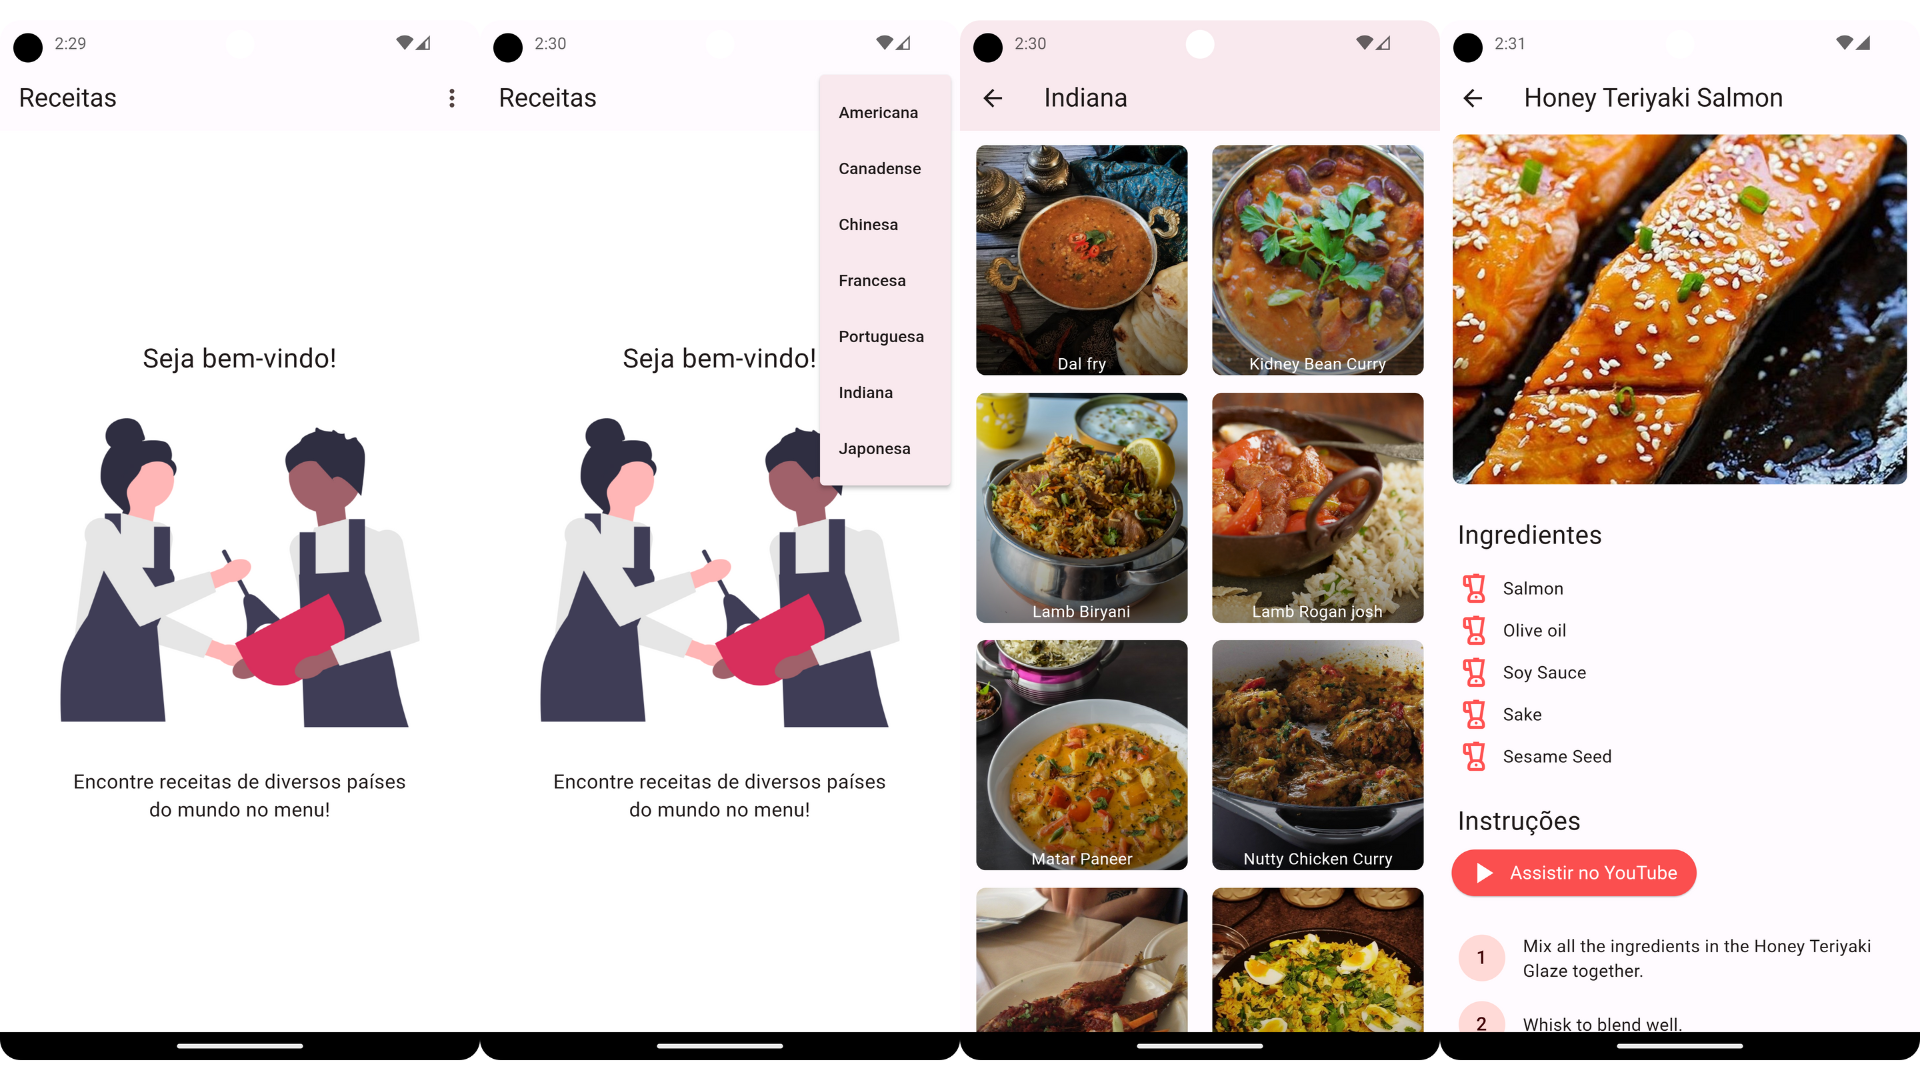
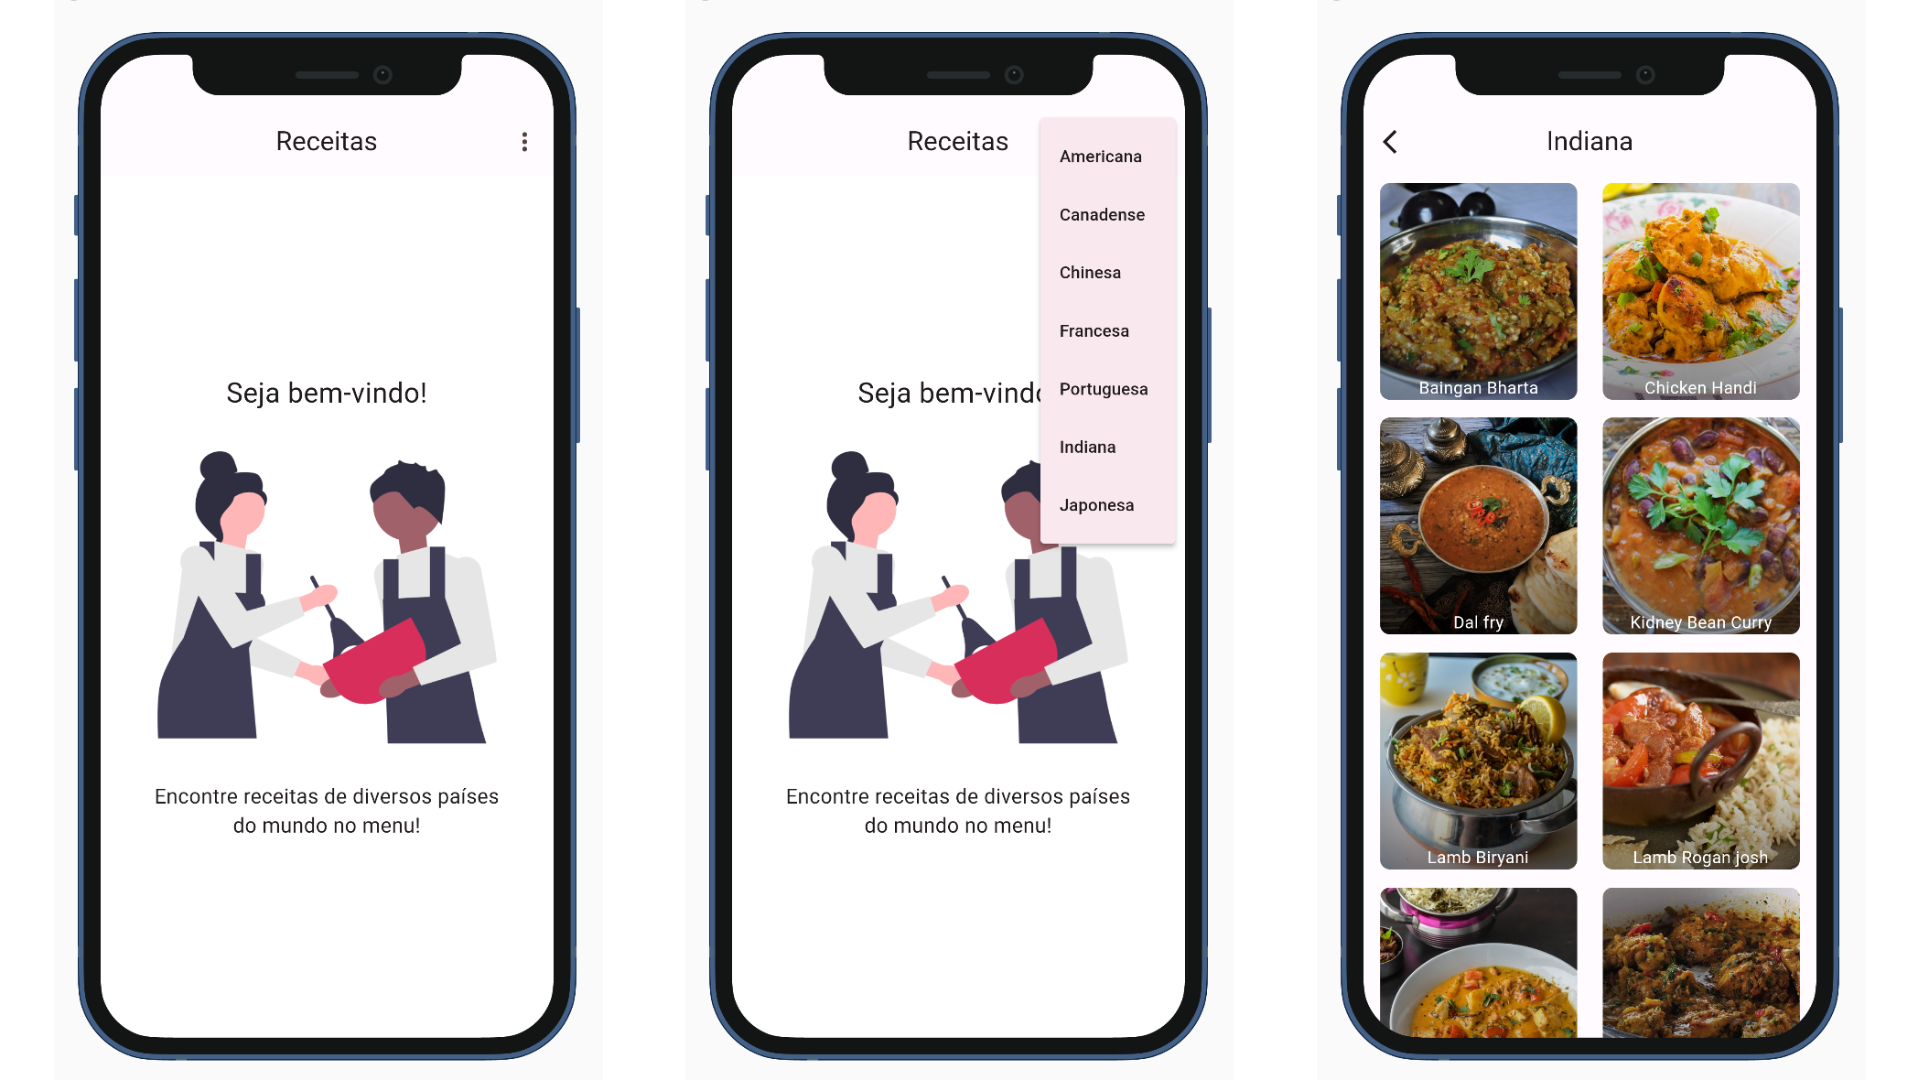
Update README.md

diff --git a/lib/main.dart b/lib/main.dart
@@ -7,7 +7,7 @@ import 'package:receitas/screens/recipes.dart';
 
 void main() {
   runApp(DevicePreview(
-      enabled: false,
+      enabled: true,
       builder: (BuildContext context) => MaterialApp(
           useInheritedMediaQuery: true,
           locale: DevicePreview.locale(context),

diff --git a/README.md b/README.md
@@ -8,4 +8,4 @@ Alexandre.
 
 ![screen](/readme/telas.png)
 
-
+![screen](/readme/telas2.png)
